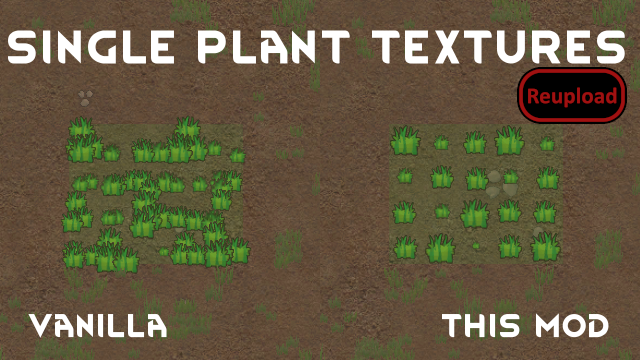
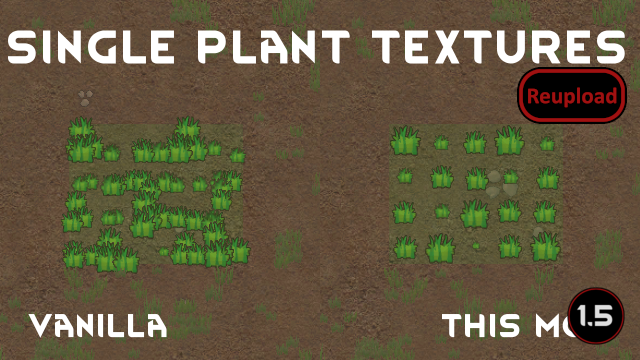
Mod updated for 1.5 and passed autotests

Changed region(s): [[0.875, 0.7944, 1.0, 0.9778]]

diff --git a/README.md b/README.md
@@ -24,11 +24,13 @@ Can be added and removed from existing saves without problems.
 
 -  See if the the error persists if you just have this mod and its requirements active.
 -  If not, try adding your other mods until it happens again.
--  Post your error-log using https://steamcommunity.com/workshop/filedetails/?id=818773962]HugsLib and command Ctrl+F12
+-  Post your error-log using https://steamcommunity.com/workshop/filedetails/?id=818773962]HugsLib or the standalone https://steamcommunity.com/sharedfiles/filedetails/?id=2873415404]Uploader and command Ctrl+F12
 -  For best support, please use the Discord-channel for error-reporting.
 -  Do not report errors by making a discussion-thread, I get no notification of that.
 -  If you have the solution for a problem, please post it to the GitHub repository.
+-  Use https://github.com/RimSort/RimSort/releases/latest]RimSort to sort your mods
 
 
 
+https://steamcommunity.com/sharedfiles/filedetails/changelog/2034171041]![Image](https://img.shields.io/github/v/release/emipa606/SinglePlantTexturePatch?label=latest%20version&style=plastic&color=9f1111&labelColor=black)
 
